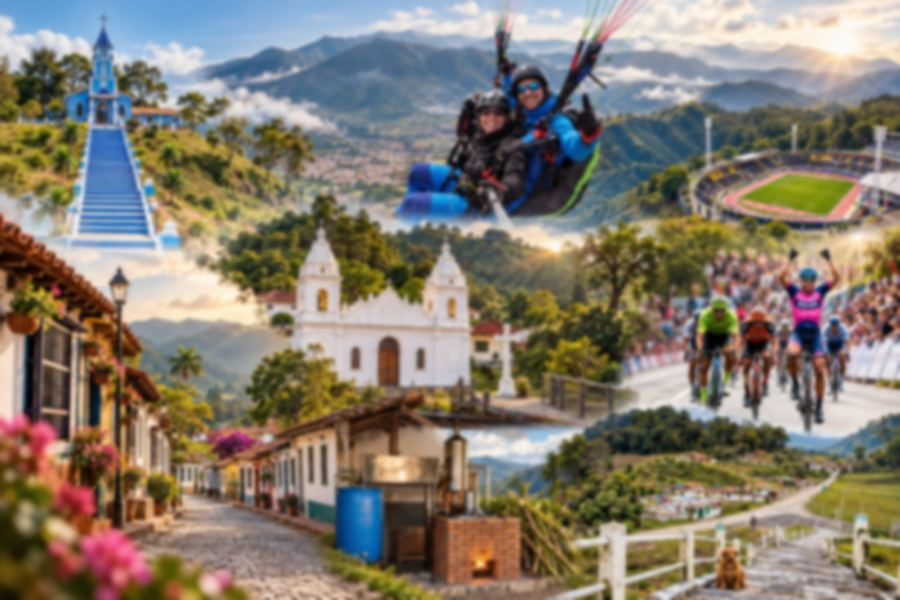
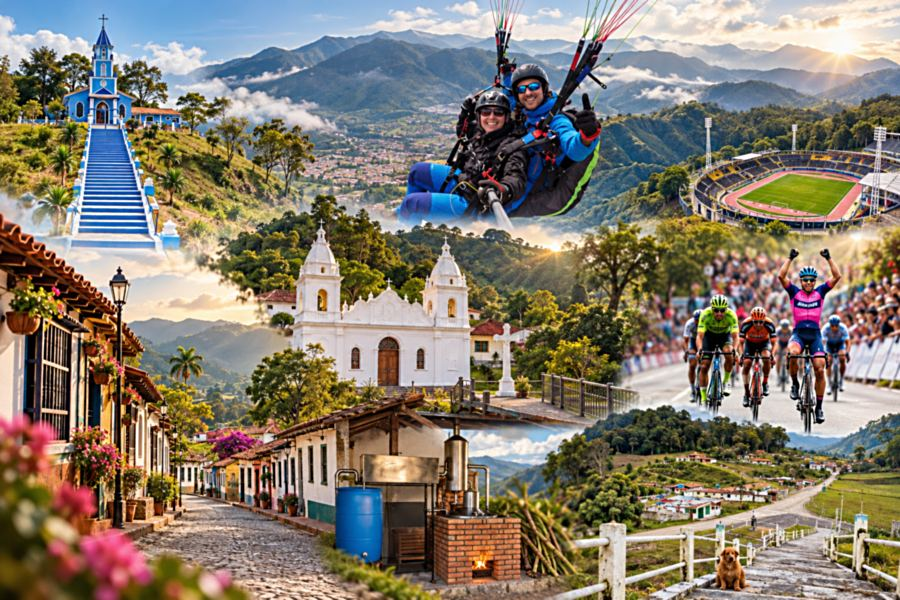
Portada más nítida y TÁCHIRA al frente
- El desenfoque baja de 3,0 a 1,2 y se le pasa una máscara de enfoque que
  devuelve el detalle: se distinguen el estadio, los ciclistas y la calle
  empedrada. Sigue suave lo justo para que el titular se lea.
- "TÁCHIRA" llevaba un degradado recortado sobre el texto, y eso lo dejaba
  translúcido: parecía estar por detrás de la foto. Ahora va sólido, en el
  naranja de la marca y con la misma sombra que el resto del titular, así que
  se lee claramente encima.

diff --git a/aplicacion.html b/aplicacion.html
@@ -3155,7 +3155,7 @@ function Hero({
     className: "text-3xl sm:text-4xl md:text-6xl font-extrabold text-white leading-tight",
     style: { letterSpacing: "-.025em", textShadow: "0 2px 10px rgba(2,10,24,.85), 0 4px 34px rgba(2,10,24,.6)" }
   }, "Descubre y reserva actividades en ", /*#__PURE__*/React.createElement("span", {
-    className: "animated-gradient-text"
+    style: { color: "#FF8A2B", textShadow: "0 1px 3px rgba(2,10,24,.9), 0 3px 18px rgba(2,10,24,.75)" }
   }, "TÁCHIRA")), /*#__PURE__*/React.createElement("p", {
     className: "mt-4 text-base md:text-lg mx-auto",
     style: { maxWidth: "46ch", color: "rgba(255,255,255,.94)", textShadow: "0 1px 6px rgba(2,10,24,.95), 0 2px 18px rgba(2,10,24,.7)" }
